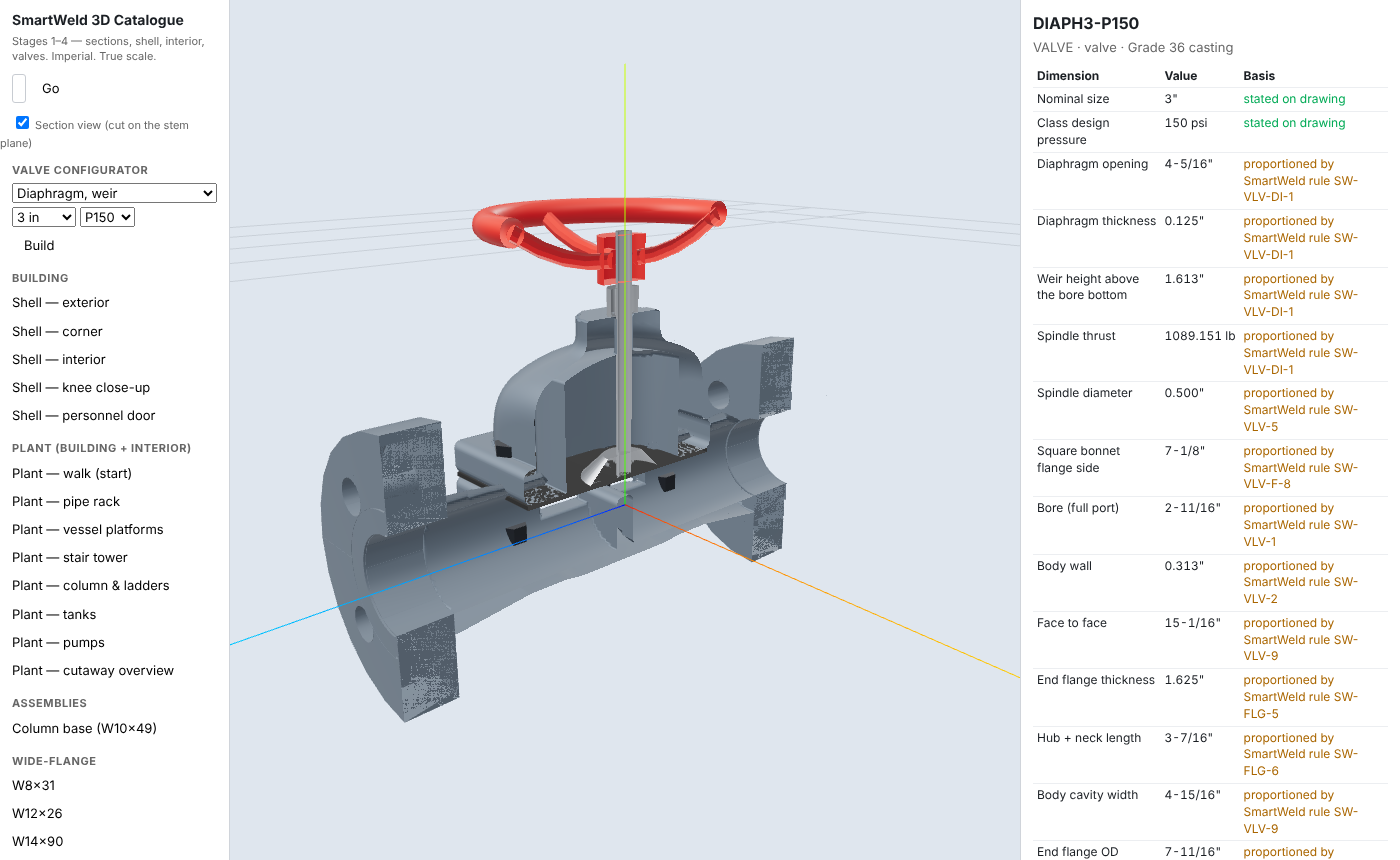
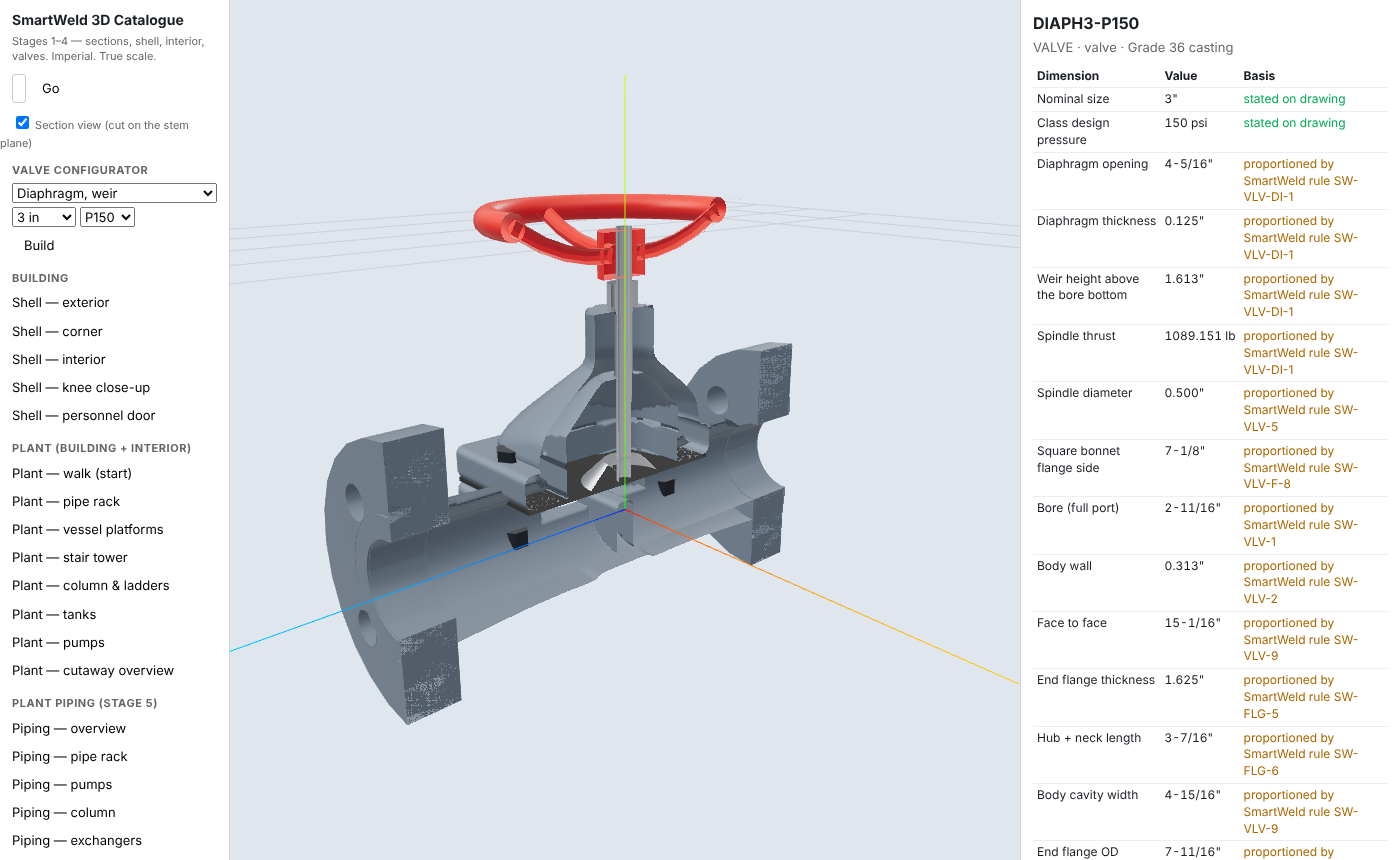
Valves: knife gate, diaphragm and trunnion ball reworked on user review (P-48)
K-1 knife gate as one casting with straight yoke legs; F-8 diaphragm body flare and
square-to-round bonnet; BT-1 trunnion ball rounded body, full-length end cones, bolted
stem and trunnion covers, saddle feet. Rules amended before code; 460 tests passing.

Claude-Session: https://claude.ai/code/session_01Lq1n1j5QwqtUtCwYEt9hS4

diff --git a/smartweld/src/catalogue/parts/valves.ts b/smartweld/src/catalogue/parts/valves.ts
@@ -338,30 +338,47 @@ const buildKnife: Build = (b, NPS, cls, dims) => {
   const D0 = pipeDims(NPS, cls).D, P = CLASS_PRESSURE[cls];
   const w = Math.max(1.5, 0.12 * D0 + 1);
   const c = common(NPS, cls, w, D0); c.F2F = w;                                                                 // K-1 wafer
-  const { D, tb, f } = c, hw = 0.65 * D, tg = Math.max(0.25, 0.03 * D), stroke = 1.05 * D;
-  push(b, 'lugged body', flangeRing(f, -w / 2, D, w));
-  const yH = D / 2 + 0.15 * D;                                                                                   // housing top
-  for (const sz of [-1, 1]) push(b, 'gate housing wall', box(-hw - tb, 0, sz * (tg / 2 + 0.06), hw + tb, yH, sz * w / 2));
-  for (const sx of [-1, 1]) push(b, 'gate housing side', box(sx * hw, 0, -w / 2, sx * (hw + tb), yH, w / 2));
+  const { D, tb, f } = c, hw = 0.65 * D, tg = Math.max(0.25, 0.03 * D), stroke = 1.05 * D, k = blendK(c);
   const F = P * (Math.PI / 4) * D * D * 0.3 * 1.2, st = risingStem(F, D), s = st.packing;                      // K-2
-  push(b, 'transverse packing box', mergeMeshes([box(-hw - tb, yH, -w / 2, hw + tb, yH + 4 * s + s, -tg / 2 - 0.06), box(-hw - tb, yH, tg / 2 + 0.06, hw + tb, yH + 4 * s + s, w / 2)]));
-  for (let i = 0; i < 4; i++) push(b, 'packing strip', box(-hw, yH + i * s, -tg / 2 - 0.06, hw, yH + (i + 1) * s, tg / 2 + 0.06), 'polymer', 'braided packing');
-  push(b, 'gland plate', box(-hw - tb - 0.5, yH + 5 * s, -w / 2, hw + tb + 0.5, yH + 5 * s + tb, w / 2));
-  const dg = Math.max(0.375, s), gl: MeshData[] = [];
-  for (const sx of [-1, 1]) gl.push(transformMesh(stud(dg, 3 * s + 1.5, 0, sx * (hw + tb + 0.25), 0, s + tb), multiply(translate(0, yH + 4 * s, 0), toY)));
-  push(b, `gland studs 2 × ${dg} in`, mergeMeshes(gl), 'hardware', STUDM, 2);
-  { const rGate = 0.52 * D, yTopG = yH + 5 * s + tb + 1, a0 = Math.asin(Math.min(1, hw / rGate));                // K-1: rounded bottom edge concentric with the bore
+  // K-1 body casting: lugged ring rising into the gate chest, packing box and top flange
+  const xc = hw + tb, yH = D / 2 + 0.15 * D, yBox = yH + 4 * s, tF = Math.max(0.5, tb + 0.125), yFl = yBox + tF;
+  const dg = Math.max(0.375, s), hg = hexHardware(dg), bl = Math.max(1, 0.15 * D), hb = hexHardware(Math.max(0.375, roundUpTo(0.12 * bl + 0.25, 1 / 8)));
+  const xs = xc + dg / 2 + 0.15, xg = xs + hg.F / 2 + 0.2, xl0 = xg + 0.25, xl1 = xl0 + bl, xF = xl1 + hb.F + 0.4;
+  const zP = tg / 2 + 0.06, zPk = zP + s;                                                                        // gate slot and packing recess half-widths
+  const er = Math.min(0.25, 0.2 * w);
+  const ring = S.rcylZ(f.OD / 2, -w / 2, w / 2, er), chest = S.roundBox(0, yBox / 2, 0, xc, yBox / 2, w / 2, er), topF = S.roundBox(0, yBox + tF / 2, 0, xF, tF / 2, w / 2, Math.min(0.2, tF / 3));
+  const holes = Array.from({ length: f.n }, (_, i) => { const a = (2 * Math.PI * (i + 0.5)) / f.n; return S.cylZ(f.holeD / 2, -w, w, (f.BC / 2) * Math.cos(a), (f.BC / 2) * Math.sin(a)); });
+  const cav = [S.cylZ(D / 2, -w, w), S.roundBox(0, (yFl + 1 - 0.56 * D) / 2, 0, hw + 0.06, (yFl + 1 + 0.56 * D) / 2, zP, 0), S.roundBox(0, (yH + yFl + 1) / 2, 0, hw + 0.06, (yFl + 1 - yH) / 2, zPk, 0), ...holes];
+  const xMax = Math.max(f.OD / 2, xF) + 0.5;
+  castPart(b, 'body', S.subtract(S.union(S.blend(k, ring, chest), topF), ...cav), [-xMax, -f.OD / 2 - 0.5, -w / 2 - 0.5], [xMax, yFl + 0.5, w / 2 + 0.5], tb);
+  for (let i = 0; i < 4; i++) for (const sz of [-1, 1]) push(b, 'packing strip', box(-hw, yH + i * s, sz * zP, hw, yH + (i + 1) * s, sz * zPk), 'polymer', 'braided packing');
+  // gland: two plates either side of the gate, drawn down by two short studs into the top flange
+  const tgp = Math.max(0.375, 0.75 * s);
+  for (const sz of [-1, 1]) push(b, 'gland plate', box(-xg, yFl, sz * zP, xg, yFl + tgp, sz * (w / 2)));
+  { const gl: MeshData[] = []; for (const sx of [-1, 1]) gl.push(cylY(dg / 2, yFl - 1.5 * dg, yFl + tgp + hg.nutH + dg / 4, sx * xs, 0), hexPrismY(hg.F, yFl + tgp, yFl + tgp + hg.nutH, sx * xs, 0));
+    push(b, `gland studs 2 × ${dg} in`, mergeMeshes(gl), 'hardware', STUDM, 2); }
+  { const rGate = 0.52 * D, yTopG = yFl + tgp + 1, a0 = Math.asin(Math.min(1, hw / rGate));                    // K-1: rounded bottom edge concentric with the bore
     const outline = dedupe([{ x: -hw, y: yTopG }, { x: -hw, y: Math.max(-rGate * Math.cos(a0), -rGate) }, ...arc(0, 0, rGate, -Math.PI / 2 - a0, -Math.PI / 2 + a0, 24), { x: hw, y: yTopG }]);
     push(b, 'gate plate', transformMesh(extrude({ outer: outline }, tg), translate(0, 0, -tg / 2)), 'closure'); }
-  const yNut = yH + 5 * s + tb + stroke + 2, nutH = 1.5 * st.ds, ta = Math.max(0.375, 0.8 * tb), bossR = 1.5 * st.ds + 0.25;
-  for (const sx of [-1, 1]) push(b, 'yoke arm', taperedArm(sx * hw * 0.8, yH + 5 * s + tb, yNut + nutH / 2, 0.25 * D, 0.12 * D, ta));
-  push(b, 'yoke boss', cylY(bossR + ta, yNut - 0.25, yNut + nutH + 0.25));
-  push(b, 'yoke cross', box(-hw * 0.8, yNut, -ta / 2, hw * 0.8, yNut + nutH, ta / 2));
-  push(b, 'stem nut', ringY(bossR, st.ds / 2 + 0.02, yNut - 0.5, yNut + nutH + 0.5), 'stem', BAR);
-  const op = sizeOperator(st.T, false);
-  push(b, `stem ${st.ds} in`, cylY(st.ds / 2, yH + 5 * s + tb, yNut + nutH + 2 + 1.5 * st.ds), 'stem', BAR);
-  operate(b, op, op.kind === 'gear' ? yNut + nutH + 0.5 : yNut + nutH + 1 + 0.12 * (op.Dhw ?? 0), st.ds, D, 2 * bossR + 2 * ta);
-  Object.assign(dims, { bodyW: rule(w, 'SW-VLV-K-1', 'Body width'), gateT: rule(tg, 'SW-VLV-K-1', 'Gate plate thickness'), stroke: rule(stroke, 'SW-VLV-K-1', 'Stroke'), thrust: rule(F, 'SW-VLV-K-2', 'Stem thrust', 'lb'), stemD: rule(st.ds, 'SW-VLV-5', 'Stem diameter') });
+  // yoke: two straight parallel legs with bolted feet, a yoke plate and the stem-nut boss
+  const yNut = yFl + tgp + 1 + stroke + 1.5, nutH = 1.5 * st.ds, bossR = 1.5 * st.ds + 0.25, ta = Math.max(0.5, tb);
+  const tFoot = 0.375, legs: MeshData[] = [], feet: MeshData[] = [], bolts: MeshData[] = [];
+  for (const sx of [-1, 1]) {
+    const x0 = sx > 0 ? xl0 : -xl1, x1 = sx > 0 ? xl1 : -xl0;
+    legs.push(box(x0, yFl + tFoot, -w / 2 + 0.1, x1, yNut, w / 2 - 0.1));
+    feet.push(box(sx > 0 ? xl0 : -xF + 0.1, yFl, -w / 2, sx > 0 ? xF - 0.1 : -xl0, yFl + tFoot, w / 2));
+    for (const sz of [-1, 1]) bolts.push(hexPrismY(hb.F, yFl + tFoot, yFl + tFoot + hb.H, sx * (xl1 + hb.F / 2 + 0.15), sz * w / 4));
+  }
+  push(b, `yoke legs 2 × bar ${bl.toFixed(2)} in`, mergeMeshes(legs));
+  push(b, 'leg feet', mergeMeshes(feet));
+  push(b, 'leg bolts 4', mergeMeshes(bolts), 'hardware', 'Grade 90 bolt', 4);
+  push(b, 'yoke plate', box(-xl1, yNut, -w / 2 + 0.1, xl1, yNut + Math.max(nutH, 2 * ta), w / 2 - 0.1));
+  push(b, 'yoke boss', cylY(bossR + ta, yNut - 0.25, yNut + Math.max(nutH, 2 * ta) + 0.25));
+  push(b, 'stem nut', ringY(bossR, st.ds / 2 + 0.02, yNut - 0.5, yNut + Math.max(nutH, 2 * ta) + 0.5), 'stem', BAR);
+  const yTop = yNut + Math.max(nutH, 2 * ta), op = sizeOperator(st.T, false);
+  push(b, `stem ${st.ds} in`, cylY(st.ds / 2, yFl + tgp + 0.5, yTop + 2 + 1.5 * st.ds), 'stem', BAR);
+  operate(b, op, op.kind === 'gear' ? yTop + 0.5 : yTop + 1 + 0.12 * (op.Dhw ?? 0), st.ds, D, 2 * bossR + 2 * ta);
+  Object.assign(dims, { bodyW: rule(w, 'SW-VLV-K-1', 'Body width'), gateT: rule(tg, 'SW-VLV-K-1', 'Gate plate thickness'), stroke: rule(stroke, 'SW-VLV-K-1', 'Stroke'), legBar: rule(bl, 'SW-VLV-K-1', 'Yoke leg bar width'), thrust: rule(F, 'SW-VLV-K-2', 'Stem thrust', 'lb'), stemD: rule(st.ds, 'SW-VLV-5', 'Stem diameter') });
   return { c, op };
 };
 
@@ -388,12 +405,16 @@ const buildDCheck: Build = (b, NPS, cls, dims) => {
 
 const mirrorZ = (m: MeshData): MeshData => { const p = m.positions.slice(); for (let i = 2; i < p.length; i += 3) p[i] = -p[i]; const idx = m.indices.slice(); for (let k = 0; k < idx.length; k += 3) { const t = idx[k + 1]; idx[k + 1] = idx[k + 2]; idx[k + 2] = t; } return { positions: p, indices: idx }; };
 /** ball-valve body of BT-1: thick cylinder along z, bore 2Rc, OD Db, from −zj to zj, chamfered outer edges */
-function forgedBody(Rc: number, Db: number, zj: number): MeshData {
-  const ch = 0.1 * (Db / 2 - Rc);
-  return revolve([{ r: Rc, z: -zj }, { r: Db / 2 - ch, z: -zj }, { r: Db / 2, z: -zj + ch }, { r: Db / 2, z: zj - ch }, { r: Db / 2 - ch, z: zj }, { r: Rc, z: zj }], N);
+function forgedBody(Rc: number, Db: number, zj: number, rr = 0.1 * (Db / 2 - Rc)): MeshData {
+  const R = Db / 2, loop: { r: number; z: number }[] = [{ r: Rc, z: -zj }];
+  for (let i = 0; i <= 8; i++) { const a = (Math.PI / 2) * (i / 8); loop.push({ r: R - rr + rr * Math.sin(a), z: -zj + rr - rr * Math.cos(a) }); }
+  for (let i = 0; i <= 8; i++) { const a = (Math.PI / 2) * (i / 8); loop.push({ r: R - rr + rr * Math.cos(a), z: zj - rr + rr * Math.sin(a) }); }
+  loop.push({ r: Rc, z: zj });
+  return revolve(dedupeRZ(loop), N);
 }
+const dedupeRZ = (p: { r: number; z: number }[]) => p.filter((q, i) => i === 0 || Math.hypot(q.r - p[i - 1].r, q.z - p[i - 1].z) > 1e-6);
 /** one end of a ball valve on +z (BT-1 / B-1): bolted adapter (gasket, studs tapped into the body, adapter flange) or integral collar, then a curved taper, neck and pipe flange. */
-function ballEnd(c: Common, fe: FlangeDesign, zj: number, Db: number, bolted: boolean): { solids: ValveSolid[]; zFace: number } {
+function ballEnd(c: Common, fe: FlangeDesign, zj: number, Db: number, bolted: boolean, taperK = 0.45, neckMin = 0): { solids: ValveSolid[]; zFace: number } {
   const { D, tb, f } = c, out: ValveSolid[] = [], h = hexHardware(fe.d);
   const z1 = zj + fe.gasketT + fe.tf;
   if (bolted) {
@@ -407,11 +428,11 @@ function ballEnd(c: Common, fe: FlangeDesign, zj: number, Db: number, bolted: bo
     out.push({ name: `adapter studs ${fe.n} × ${fe.d} in (1.5 d tapped into the body, engaged length not drawn)`, mesh: mergeMeshes(st), role: 'hardware', material: STUDM, count: fe.n });
   } else out.push({ name: 'integral end collar', mesh: ringZ(Db / 2 - 0.1 * (Db / 2 - fe.gasketID / 2), D / 2, zj, z1), role: 'casting', material: CAST });
   const rN = D / 2 + 2 * tb, Rt0 = Math.max(rN + 0.25, bolted ? fe.BC / 2 - h.F / 2 - 0.25 : Db / 2 - 0.1 * (Db / 2 - fe.gasketID / 2));
-  const Lt = Math.max(1, 0.45 * (Rt0 - rN)), loop: { r: number; z: number }[] = [{ r: D / 2, z: z1 }];
+  const Lt = Math.max(1, taperK * (Rt0 - rN)), loop: { r: number; z: number }[] = [{ r: D / 2, z: z1 }];
   for (let i = 0; i <= 8; i++) { const a = (Math.PI / 2) * (i / 8); loop.push({ r: rN + (Rt0 - rN) * Math.cos(a), z: z1 + Lt * Math.sin(a) }); }
   loop.push({ r: D / 2, z: z1 + Lt });
   out.push({ name: bolted ? 'end adapter taper' : 'body end taper', mesh: revolve(loop, N), role: 'casting', material: CAST });
-  const z2 = z1 + Lt, zFace = z2 + 1 + 0.5 * f.hubLen + f.tf;
+  const z2 = z1 + Lt, zFace = z2 + Math.max(1 + 0.5 * f.hubLen, neckMin) + f.tf;
   out.push({ name: bolted ? 'end adapter neck' : 'body end neck', mesh: ringZ(rN, D / 2, z2, zFace - f.tf), role: 'casting', material: CAST });
   out.push({ name: 'end flange', mesh: flangeRing(f, zFace - f.tf, D), role: 'casting', material: CAST });
   out.push({ name: 'raised face', mesh: ringZ(f.rfOD / 2, D / 2, zFace, zFace + f.rfH), role: 'casting', material: CAST });
@@ -433,9 +454,9 @@ function ballWithBore(Rb: number, D: number): MeshData {
 const buildTBall: Build = (b, NPS, cls, dims) => {
   const D0 = pipeDims(NPS, cls).D, Rb = 0.75 * D0, sc = 0.15 * D0;
   const c = common(NPS, cls, 1.5 * D0 + 2 * sc + 1, 2 * Rb + 2 * sc); const { D, tb, P } = c;
-  const Rc = Rb + sc, fe = designFlange(NPS, cls, 2 * Rc, tb, 2 * Rc + 2 * tb), Db = fe.BC + 2.5 * fe.d, zj = Rc + 0.5;   // BT-1
-  push(b, 'centre body (forged)', forgedBody(Rc, Db, zj));
-  const end = ballEnd(c, fe, zj, Db, true);
+  const Rc = Rb + sc, fe = designFlange(NPS, cls, 2 * Rc, tb, 2 * Rc + 2 * tb), Db = fe.BC + 3.5 * fe.d, zj = Rc + 0.5;   // BT-1
+  push(b, 'centre body (forged)', forgedBody(Rc, Db, zj, 1.5 * fe.d));
+  const end = ballEnd(c, fe, zj, Db, true, 1.0, 0.25 * D);
   pushEnd(b, end, 1); pushEnd(b, end, -1);
   c.wBody = 2 * zj; c.F2F = 2 * end.zFace;
   push(b, `ball ${2 * Rb} in`, ballWithBore(Rb, D), 'closure', BAR);
@@ -448,16 +469,26 @@ const buildTBall: Build = (b, NPS, cls, dims) => {
   }
   const T = P * Math.PI * (1.2 * D) * (0.1 * D) * 0.1 * (0.6 * D) + P * (Math.PI / 4) * D * D * 0.05 * 0.5;        // BT-2 (stem term uses a provisional ds/2 = 0.5)
   const ds = ballStem(T), op = sizeOperator(T, true);
-  const rp = Math.max(ds + 3, 0.4 * D) / 2 + ds / 2, yPad = Db / 2 + 0.75, yNeck = yPad + 1.5 * ds + 0.5;
-  push(b, 'stem pad', bodyPad(Db / 2, rp, 1, 0.75));
-  push(b, 'stem neck', ringY(ds + 0.5, ds / 2 + 0.03, yPad, yNeck));
-  push(b, 'stem seal', ringY(ds / 2 + 0.03, ds / 2, yNeck - 0.6, yNeck - 0.2), 'polymer', 'polymer');
+  // BT-1: stem housing — a raised boss closed by a bolted cover, then a mounting spool to the operator; the same boss
+  // and cover close the trunnion underneath
+  const rp = Math.max(ds + 3, 0.4 * D) / 2 + ds / 2, yBoss = Db / 2 + 1, tc = Math.max(0.75, 0.5 * ds), dB = Math.max(0.375, roundUpTo(0.12 * rp, 1 / 8)), hB = hexHardware(dB);
+  const rBC = rp - hB.F / 2 - 0.15, rSp = Math.max(ds / 2 + 1, 0.45 * rp), ySp0 = yBoss + tc, yNeck = ySp0 + 1.5 * ds + 1.5;
+  for (const up of [1, -1] as const) {
+    push(b, up > 0 ? 'stem housing boss' : 'trunnion boss', bodyPad(Db / 2, rp, up, yBoss - Db / 2));
+    push(b, up > 0 ? 'stem housing cover' : 'trunnion cover', up > 0 ? ringY(rp + 0.25, ds / 2 + 0.05, yBoss, yBoss + tc) : cylY(rp + 0.25, -(yBoss + tc), -yBoss));
+    const bl: MeshData[] = []; for (let i = 0; i < 8; i++) { const a = (Math.PI * (i + 0.5)) / 4, x = rBC * Math.cos(a), z = rBC * Math.sin(a); bl.push(up > 0 ? hexPrismY(hB.F, yBoss + tc, yBoss + tc + hB.H, x, z) : hexPrismY(hB.F, -(yBoss + tc + hB.H), -(yBoss + tc), x, z)); }
+    push(b, `${up > 0 ? 'cover' : 'trunnion cover'} bolts 8 × ${dB} in`, mergeMeshes(bl), 'hardware', 'Grade 90 bolt', 8);
+  }
+  push(b, 'mounting spool', ringY(rSp, ds / 2 + 0.05, ySp0, yNeck - 0.5));
+  push(b, 'mounting flange', ringY(rSp + 0.5, ds / 2 + 0.05, yNeck - 0.5, yNeck));
+  push(b, 'stem seal', ringY(ds / 2 + 0.03, ds / 2, yBoss - 0.6, yBoss - 0.2), 'polymer', 'polymer');
   push(b, `stem ${ds} in`, cylY(ds / 2, Rb - 0.4 * ds, yNeck + 1), 'stem', BAR);
-  push(b, 'trunnion pad', bodyPad(Db / 2, rp, -1, 0.75));
   push(b, 'trunnion', cylY(ds / 2, -(Db / 2 + 0.5), -(Rb - 0.4 * ds)), 'stem', BAR);
-  push(b, 'trunnion cover', cylY(ds + 1.25, -(yPad + 0.75), -yPad));
-  const cov: MeshData[] = []; for (let i = 0; i < 4; i++) { const a = Math.PI / 4 + (Math.PI * i) / 2; cov.push(transformMesh(hexBolt(0.375, 0.75, 0, (ds + 0.95) * Math.cos(a), (ds + 0.95) * Math.sin(a)), multiply(translate(0, -yPad, 0), rotateX(Math.PI / 2)))); }
-  push(b, 'cover bolts 4 × 3/8 in', mergeMeshes(cov), 'hardware', 'Grade 90 bolt', 4);
+  if (NPS >= 8) {                                                                                                  // BT-1 saddle feet
+    const tF = tb + 0.25, yBase = -(yBoss + tc + hB.H + 1), xw = 0.3 * Db, yTopF = -Math.sqrt((Db / 2) ** 2 - xw * xw) + 0.3, ft: MeshData[] = [];
+    for (const sz of [-1, 1]) { const z = sz * 0.5 * zj; ft.push(box(-xw, yBase + 0.5, z - tF / 2, xw, yTopF, z + tF / 2), box(-xw - 1, yBase, z - 2, xw + 1, yBase + 0.5, z + 2)); }
+    push(b, 'saddle feet 2', mergeMeshes(ft));
+  }
   operateQT(b, op, op.kind === 'gear' ? yNeck : yNeck + 0.2, ds, D);
   Object.assign(dims, { ballD: rule(2 * Rb, 'SW-VLV-BT-1', 'Ball diameter'), carrier: rule(sc, 'SW-VLV-BT-1', 'Seat carrier section'), bodyOD: rule(Db, 'SW-VLV-BT-1', 'Body outside diameter'), torque: rule(T, 'SW-VLV-BT-2', 'Operating torque (lb·in)', 'lb'), stemD: rule(ds, 'SW-VLV-B-2', 'Stem / trunnion diameter') });
   return { c, op, extra: { joint: fe, torque: T } };
@@ -740,22 +771,27 @@ const buildDiaph: Build = (b, NPS, cls, dims, notes) => {
   endFlanges(b, c);
   const Ro = 0.8 * D, yF = 0.3 * D, fb = designFlange(NPS, cls, 2 * Ro, tb, 2 * Ro + 2 * tb), hs = Ro + tb + 2.2 * fb.d, td = Math.max(0.125, 0.03 * D);
   const yLo = -(D / 2 + tb), yHi = yF - fb.tf;
-  const outer = S.union(S.blend(k, runSDF(c, zi), S.roundBox(0, (yLo + yHi) / 2, 0, Ro + tb, (yHi - yLo) / 2, Ro + tb, Math.min(0.35 * D, 0.4 * (Ro + tb)))), S.roundBox(0, yF - fb.tf / 2, 0, hs, fb.tf / 2, hs, 0.25));
+  // F-8: the body flares from each flange hub into the body (no bare run tube)
+  const rH = D / 2 + 2 * tb, rBf = 0.75 * (Ro + tb), zb = Ro + tb;
+  const flares = [S.frustumZ(rBf, 0.5 * zb, rH, zi), S.frustumZ(rH, -zi, rBf, -0.5 * zb)];
+  const outer = S.union(S.blend(1.5 * k, runSDF(c, zi), ...flares, S.roundBox(0, (yLo + yHi) / 2, 0, Ro + tb, (yHi - yLo) / 2, Ro + tb, Math.min(0.35 * D, 0.4 * (Ro + tb)))), S.roundBox(0, yF - fb.tf / 2, 0, hs, fb.tf / 2, hs, 0.25));
   const weir = S.roundBox(0, -D / 2 + 0.3 * D - 0.5, 0, Ro + 1, 0.3 * D + 0.5, 0.12 * D, 0.08 * D);
   const cav = S.subtract(S.union(boreSDF(c, zi), S.superCylY(Ro, Ro, -0.1 * D, yF + 1, 4)), weir);
   castPart(b, 'body', S.subtract(outer, cav), [-hs - 0.5, yLo - 0.5, -(zi + 0.1)], [hs + 0.5, yF + 0.1, zi + 0.1], tb);
   push(b, 'diaphragm', box(-hs + 0.1, yF, -hs + 0.1, hs - 0.1, yF + td, hs - 0.1), 'polymer', 'polymer');
-  const F = P * (Math.PI / 4) * (1.6 * D) ** 2 * 0.5, st = risingStem(F, D), y0 = yF + td, yT = y0 + fb.tf, Hd = 0.9 * Ro + 1, rTop = 1.5 * st.ds + 0.6;
-  const he = hs - 0.4, dome = S.smoothIntersect(Math.max(0.3, 0.15 * he), S.superCylY(he, he, yT - 0.05, yT + Hd + 1, 4), S.ellipsoid(0, yT, 0, 1.3 * he, Hd, 1.3 * he));   // F-8: round on top, square at the base
-  const bon = S.subtract(S.union(S.roundBox(0, y0 + fb.tf / 2, 0, hs, fb.tf / 2, hs, 0.25), S.blend(0.4, dome, S.cylY(rTop, yT + Hd - 0.8, yT + Hd + 0.75))),
-    S.intersect(S.superCylY(Ro, Ro, y0 - 1, yT + Hd, 4), S.ellipsoid(0, yT, 0, 1.3 * he - tb, Hd - tb, 1.3 * he - tb)), S.cylY(st.ds / 2 + 0.05, yT, yT + Hd + 2));
-  castPart(b, 'bonnet', bon, [-hs - 0.3, y0 - 0.1, -hs - 0.3], [hs + 0.3, yT + Hd + 1, hs + 0.3], tb);
+  const F = P * (Math.PI / 4) * (1.6 * D) ** 2 * 0.5, st = risingStem(F, D), y0 = yF + td, yT = y0 + fb.tf;
+  // F-8 bonnet: square at its flange, round above (square prism ∩ cone), up to a round spindle neck
+  const he = hs - 0.4, rN = Math.max(1.2 * st.ds + 0.5, 0.3 * he), Hb = 0.8 * he, yN = yT + Hb, Hn = Math.max(1.5, 0.6 * rN), kb = Math.max(0.3, 0.12 * he);
+  const shell = (d: number) => S.smoothIntersect(kb, S.superFrustumY(he - d, he - d, yT - 0.05 - (d ? 1 : 0), 0.8 * he - d, 0.8 * he - d, yN - d, 4), S.superFrustumY(1.35 * he - d, 1.35 * he - d, yT - 0.05 - (d ? 1 : 0), rN - d, rN - d, yN - d, 2));
+  const bonOuter = S.union(S.roundBox(0, y0 + fb.tf / 2, 0, hs, fb.tf / 2, hs, 0.25), S.blend(0.4, shell(0), S.cylY(rN, yN - 0.5 * rN, yN + Hn)));
+  const bon = S.subtract(bonOuter, S.intersect(S.superCylY(Ro, Ro, y0 - 1, yN, 4), shell(tb)), S.cylY(st.ds / 2 + 0.05, yT, yN + Hn + 1));
+  castPart(b, 'bonnet', bon, [-hs - 0.3, y0 - 0.1, -hs - 0.3], [hs + 0.3, yN + Hn + 0.3, hs + 0.3], tb);
   jointBolts(b, squarePts(hs - 1.2 * fb.d, fb.n), fb.d, yF - fb.tf, yT, 'bonnet bolts');
   push(b, 'compressor', revolveY([{ r: 0, z: y0 }, { r: 0.6 * Ro, z: y0 }, { r: 0.3 * Ro, z: y0 + 0.3 * Ro }, { r: 0, z: y0 + 0.3 * Ro }]), 'closure');
-  const op = sizeOperator(st.T, false), ySp = yT + Hd + 0.75;
+  const op = sizeOperator(st.T, false), ySp = yN + Hn;
   push(b, `spindle ${st.ds} in`, cylY(st.ds / 2, y0, ySp + 1.5 * st.ds + 1.5), 'stem', BAR);
   push(b, 'spindle sleeve', ringY(st.ds, st.ds / 2 + 0.02, ySp, ySp + 1.5 * st.ds), 'stem', BAR);
-  operate(b, op, op.kind === 'gear' ? ySp : ySp + 1.5 * st.ds + 1 + 0.12 * (op.Dhw ?? 0), st.ds, D, 2 * rTop + 2);
+  operate(b, op, op.kind === 'gear' ? ySp : ySp + 1.5 * st.ds + 1 + 0.12 * (op.Dhw ?? 0), st.ds, D, 2 * rN + 2);
   Object.assign(dims, { opening: rule(2 * Ro, 'SW-VLV-DI-1', 'Diaphragm opening'), diaphragmT: rule(td, 'SW-VLV-DI-1', 'Diaphragm thickness'), weirH: rule(0.6 * D, 'SW-VLV-DI-1', 'Weir height above the bore bottom'), thrust: rule(F, 'SW-VLV-DI-1', 'Spindle thrust', 'lb'), stemD: rule(st.ds, 'SW-VLV-5', 'Spindle diameter'), flangeSquare: rule(2 * hs, 'SW-VLV-F-8', 'Square bonnet flange side') });
   notes.push('No packing: the diaphragm is the pressure boundary (SW-VLV-DI-1).');
   return { c, op, extra: { stem: st } };

diff --git a/smartweld/tests/stage4.test.ts b/smartweld/tests/stage4.test.ts
@@ -91,7 +91,7 @@ describe('valves (SW-VLV-*)', () => {
       if (['GATE', 'GLOBE', 'YGLOBE', 'CHECK', 'LCHECK', 'PLUG', 'DIAPH', 'CONTROL'].includes(type)) expect(v.dims.F2F.value).toBeCloseTo(2 * f.tf + 2 * (f.hubLen + 1) + v.dims.wBody.value, 9);
       if (type === 'BALL' || type === 'TBALL') {                                     // BT-1: studded body joint, body longer than the cavity, F2F = body + two ends
         const j = v.extra!.joint as { BC: number; d: number; n: number };
-        expect(v.dims.bodyOD.value).toBeCloseTo(j.BC + 2.5 * j.d, 9);
+        expect(v.dims.bodyOD.value).toBeCloseTo(j.BC + (type === "TBALL" ? 3.5 : 2.5) * j.d, 9);   // BT-1 (amended, P-48), B-1
         expect(v.dims.bodyOD.value).toBeGreaterThan(v.dims.ballD.value);
         expect(j.n % 4).toBe(0);
         expect(v.dims.F2F.value).toBeGreaterThan(v.dims.wBody.value + 2 * f.tf);

diff --git a/smartweld/tools/contact-sheet.py b/smartweld/tools/contact-sheet.py
@@ -1,0 +1,18 @@
+"""Compose valve contact sheets from the viewer screenshots (crops the 3D view, tiles 4 across, labels each)."""
+import sys
+from PIL import Image, ImageDraw
+src = sys.argv[1] if len(sys.argv) > 1 else 'screenshots/stage4'
+SHEETS = {
+    'sheet-1.png': ['v-GATE', 'v-GLOBE', 'v-YGLOBE', 'v-AGLOBE', 'v-CHECK', 'v-LCHECK-section', 'v-DCHECK', 'v-BALL', 'v-TBALL', 'v-BFLY', 'v-LBFLY', 'v-DBFLY'],
+    'sheet-2.png': ['v-PLUG', 'v-DIAPH', 'v-NEEDLE', 'v-PSV', 'v-CONTROL', 'v-KNIFE', 'v-GATE-gear', 'v-GATE-section'],
+}
+W, H = 395, 380
+for out, names in SHEETS.items():
+    rows = (len(names) + 3) // 4
+    sheet = Image.new('RGB', (4 * W, rows * H), (223, 230, 238))
+    for i, n in enumerate(names):
+        im = Image.open(f'{src}/{n}.png').convert('RGB').crop((230, 0, 1020, 860))
+        im.thumbnail((W, H)); x, y = (i % 4) * W, (i // 4) * H
+        sheet.paste(im, (x + (W - im.width) // 2, y + (H - im.height) // 2))
+        d = ImageDraw.Draw(sheet); d.rectangle([x, y, x + 200, y + 18], fill='white'); d.text((x + 4, y + 3), n, fill='black')
+    sheet.save(f'{src}/{out}'); print('wrote', f'{src}/{out}')

diff --git a/smartweld/PROVENANCE.md b/smartweld/PROVENANCE.md
@@ -66,6 +66,7 @@ appended.
 | P-45 | 2026-11-01 | Stage 5 generator built and debugged against the §40 checks (`src/generator/piping.ts`, `router.ts`, `pipingCheck.ts`). **Disclosure of order:** while debugging, several rules were applied in code before they were written into DESIGN_BASIS.md, and two intermediate commits (912fdb5 and ab9e8c9, marked WIP) were pushed with code naming SW-RT-7, SW-NOZ-4 and SW-PS-13 before those rules existed in the basis. This departs from "no rule used in code before it is written there"; it was corrected by writing every amendment below into DESIGN_BASIS.md, with its reason, in the commit that adds the stage-5 tests (9db0100), and the rule-audit test now guards the stage-5 files. Rule amendments (all reasoned, no source): SW-RT-1 (lane choice and drop points within 3 ft), SW-RT-2 (lane width counts take-off flanges), SW-RT-3 (zone exemption includes the lead-in and drop points; clearance measured between drawn envelopes), SW-RT-4 (amended to "never back-to-back elbows, 2 in minimum straight and pipe piece"; the earlier text "2 R of straight pipe" was not what the grid router does), SW-RT-5 (splices off the rack beams), SW-RT-7 new (rack band), SW-NOZ-4 new (relief standout to put the valve outlet on the grid), SW-LL-3 (seal-flush lines isolated at the header only; hose stations closed by a blind flange, not a cap), SW-LL-5 new (valve stem orientation; never stem-down), SW-PS-1/8 (shoe height = gap to the beam; tees kept off beams), SW-PS-9 (hang only from horizontal steel; rods to 20 ft; stepped placement), SW-PS-13 new (trapeze for a line under a line), SW-PW-2 (field welds stated exactly; welds derived from the component chain). Layout (drawing) changes, each forced by a check: exchanger centreline 60 → 72 in (bottom-nozzle valve stacks hit the pad); C-101 N4 reflux 222 → 300 in (its control valve struck the feed control valve and then the top platform's guardrail); C-101 N5 vent 12 → 18 in off centre (overhead gate handwheel); C-101 N7, N9 from −x to −z (upper ladder); hose stations 18 in apart at 42 in, the last bent's on its near side (no steel to hang from past the rack end). |
 | P-46 | 2026-11-01 | Stage 5 verified: 203 lines (88 routed, 9 rack headers, 106 stubs) with no routing failures; 2,906 components (574 pipe pieces, 5,199 ft of pipe, 303 elbows, 139 tees, 12 reducers, 18 caps, 317 weld-neck flanges, 143 blinds, 560 gaskets with 560 stud sets, 280 valves: 201 ball, 64 gate, 8 swing check, 4 control, 3 safety); 1,265 line butt welds (326 field) plus 100 nozzle neck welds; 239 supports (68 hangers, 67 shoes, 61 guides, 20 anchors, 20 trunnions, 2 stanchions, 1 trapeze); 100 nozzles with necks. Every §40 check passes on the full model, with an independent checker that reads only the plain data: continuity within 1/16 in, one weld per butt joint and per tee outlet, gasket and stud set at every flanged joint, elbow radius, no back-to-back elbows, pipe pieces 2 in to 40 ft, line numbering and valve offering, 3 in clearance between lines (valves by their drawn envelope; closest pair 3.43 in) and to the structure and equipment, spans and rack shoes, and the rule audit. 460 tests passing. The model is committed as `public/plant-piping.json`, and a test checks it equals a fresh run. |
 | P-47 | 2026-11-01 | Viewer: plant piping views (overview, rack, pumps, column, exchangers, tanks, plan, walk) and a line inspector (bill of materials, weld list with shop/field, supports, highlighted line). Display-only level of detail, dimensions unchanged: valves within 40 ft of the eye on a 40-cell marching grid, farther ones on 18; tees drawn as run and branch pipe meeting at a sharp crotch (the blended tee casting needs 260k triangles at its wall-limited grid). Stated simplifications: concentric reducers only (pump suctions); no insulation; instrument and sample connections end at a valve and blind (no instruments); control valves without bypasses; no stress analysis or expansion loops (anchors and guides placed by rule only); nozzle-to-shell welds belong to equipment fabrication and are not recorded; supports are checked for a clear rod or post path, not for full clearance. |
+| P-48 | 2026-10-31 | User review of the valve contact sheets: the knife gate and diaphragm valve "don't look right" and the trunnion-mounted ball valve "is not a real valve shape". Accepted. Reworked by reasoning from the generic arrangement of each type (P-39), no source consulted, rules amended in DESIGN_BASIS.md before the code: K-1 (knife gate body as one casting — lugged ring rising into a gate chest with packing box and top flange; gland plates on short studs; straight parallel yoke legs with bolted feet and a yoke plate, replacing splayed tapered arms and box-built housing); F-8 (diaphragm body flares from the flange hubs into the body; bonnet square at its flange and round above, rising to a round spindle neck, replacing a low dome on bare run tubes); BT-1 (trunnion ball body OD BC_j + 3.5 d_j with edges rounded 1.5 d_j; end adapters taper over their full radial drop with a neck of at least 0.25 D; bolted stem-housing and trunnion covers on raised bosses; mounting spool to the operator; saddle feet from 8 in). Load-carrying sizes (bore, walls, stems, thrust, torque, flanges, bolting) unchanged. Stage-4 test updated for the amended BT-1 body diameter. Plant piping unaffected (it uses no knife, diaphragm or trunnion ball valves). |
 | P-10 | 2026-10-31 | Architecture decision: the part model is plain JSON-serialisable data (`PartSpec` with per-dimension basis tags). Geometry (`geometry/`) converts it to profile polygons and mesh arrays without any renderer dependency. The three.js viewer and the ground-truth export both consume the same data. |
 
 ## External resources
@@ -80,5 +81,6 @@ appended.
 | typescript                     | 5.9.3    | Apache-2.0  | Compiler                                        | P-2    |
 | playwright (pre-installed)     | session  | Apache-2.0  | Headless browser screenshots for verification   | P-2    |
 | Node.js (pre-installed)        | 22.23.4  | MIT         | Runtime                                         | P-2    |
+| Pillow (pre-installed, Python) | 12.3.0   | MIT-CMU (HPND) | Composes screenshot contact sheets (`tools/contact-sheet.py`); not shipped | P-48 |
 
 No other external resource of any kind was consulted.

diff --git a/smartweld/DESIGN_BASIS.md b/smartweld/DESIGN_BASIS.md
@@ -908,9 +908,17 @@ Knife gate (`SW-VLV-K-*`), lugged wafer body, flat plate gate. Sizes 2–36, cla
   width w = 0.12 D + 1 in (minimum 1-1/2 in), with a rectangular gate housing above the bore
   of the same width and 1.3 D wide, topped by a transverse packing box 4 s deep (SW-VLV-6)
   with a bolted gland. Gate plate thickness max(1/4 in, 0.03 D), width 1.3 D, with a rounded
-  bottom edge of radius 0.52 D concentric with the bore (bevelled to a knife edge); stroke D + 0.05 D; a cast yoke of two tapered arms (G-4 proportions) from the
-  gland plate to a stem-nut boss. Reason: a plate gate needs no cavity, which is why the body
-  is thin and why slurries pass; the plate is sealed where it leaves the body, not in a bonnet.
+  bottom edge of radius 0.52 D concentric with the bore (bevelled to a knife edge); stroke D + 0.05 D.
+  The body is one casting (F-0 blends): the lugged ring, of the pipe flange's OD and drilled on
+  its bolt circle, rises into a gate chest of the body width and 2 (0.65 D + t_b) across, which
+  carries the packing box and ends in a flat top flange b_l + 1/2 in wider each side than the
+  chest; a gland plate is drawn down onto the packing by two short studs in the top flange.
+  Yoke: two straight, parallel legs of flat bar b_l = max(1 in, 0.15 D) × the body width,
+  bolted to the top flange (two bolts each), joined at the top by a yoke plate carrying the
+  stem-nut boss; the stem rises through the handwheel. Reason: a plate gate needs no cavity,
+  which is why the body is thin and why slurries pass; the plate is sealed where it leaves the
+  body, not in a bonnet; straight legs carry the stem thrust as columns. (Amended on user
+  review from tapered splayed arms and box-built housing, P-48.)
 - `K-2` Thrust F = P (π/4) D² × 0.3 × 1.2 (plate dragged over the seat, 20 % for the
   transverse packing); stem and handwheel by SW-VLV-5/8 on a two-bar yoke.
 
@@ -991,7 +999,18 @@ Ball, trunnion-mounted (`SW-VLV-BT-*`). Sizes 2–48, all classes within SW-VLV-
   joint into the body wall instead of adding an outward flange keeps the joint diameter equal
   to the body, which is how these bodies are built; the adapter tapers because the bolt load
   must be carried into the much smaller pipe neck. (Amended on user review: the earlier
-  flange-to-flange joint stood proud of a narrow body and was not a real construction.) Ball 1.5 D, carried on the
+  flange-to-flange joint stood proud of a narrow body and was not a real construction.)
+  Second amendment on user review (P-48): body OD D_b = BC_j + 3.5 d_j so its outer edges can
+  be rounded with radius 1.5 d_j outside the nut circle; each adapter's taper runs over its full
+  radial drop (concave, from the joint flange to the neck) and its neck is at least 0.25 D long
+  before the end flange, so the end connectors read as the forged cones they are; the stem
+  housing is a raised round boss on top of the body closed by a bolted cover flange (8 bolts),
+  with a cylindrical mounting spool to the operator; the trunnion is closed underneath by the
+  same boss and cover; from 8 in, two saddle feet (plates of thickness t_b + 1/4 in, 0.6 D_b
+  wide, at half the body length from the centre) stand under the body on base plates 1 in
+  below the trunnion cover bolts. Reason: the bonnet and trunnion covers are separate
+  bolted parts so the stem and trunnion bearings can be serviced; large valves are set on
+  feet so the line does not carry their weight. Ball 1.5 D, carried on the
   stem and a bottom trunnion of diameter d_s in bearings; seat carriers (rings of section
   0.15 D × 0.15 D) pressed onto the ball by coil springs. Reason: the trunnions take the
   end-force, so the seats only have to seal, which is what makes large and high-pressure ball
@@ -1157,10 +1176,15 @@ rules of sections 29–32.
 - `F-8` Plug: a cast body that is a rounded square prism (superellipse exponent 4) around the
   taper, blended into the run tubes, closed by a round gland cover; square wrench head and a
   wrench lever. Diaphragm: run tubes into a rounded square body with a low weir across the
-  bore, a square body flange and a square bonnet flange with four corner bolts clamping the
-  diaphragm, and a dome bonnet (the intersection of the square prism and an ellipsoid, so the
-  dome is round on top and square at its base) with a top boss. Reason: the diaphragm and its
-  compressor are rectangular in plan where they meet the weir.
+  bore, a square body flange and a square bonnet flange with bolts (DI-1) clamping the
+  diaphragm. The body flares smoothly from each end-flange hub into the body (a cone from the
+  hub to 0.75 of the body half-width, blended), so no bare run tube shows. The bonnet rises
+  from its square flange as the intersection of a square prism (tapering to 0.8 of the
+  flange half-side) and a cone, so it is square at the base and round above, to a round
+  spindle neck of radius max(1.2 d_s + 1/2 in, 0.3 × the flange half-side); bonnet height
+  0.8 × the flange half-side + the neck. Reason: the diaphragm and its compressor are
+  rectangular in plan where they meet the weir; above them only the spindle needs housing.
+  (Amended on user review from a low dome on dumbbell run tubes, P-48.)
 - `F-9` Safety valve: a cast angle body that blends the inlet neck (from below), a bowl around
   the nozzle and the outlet neck (to the side); a bonnet that tapers from its bolted base
   flange to the cap; a screwed cap with a lifting lever of length max(4 in, 3 × the cap radius)
